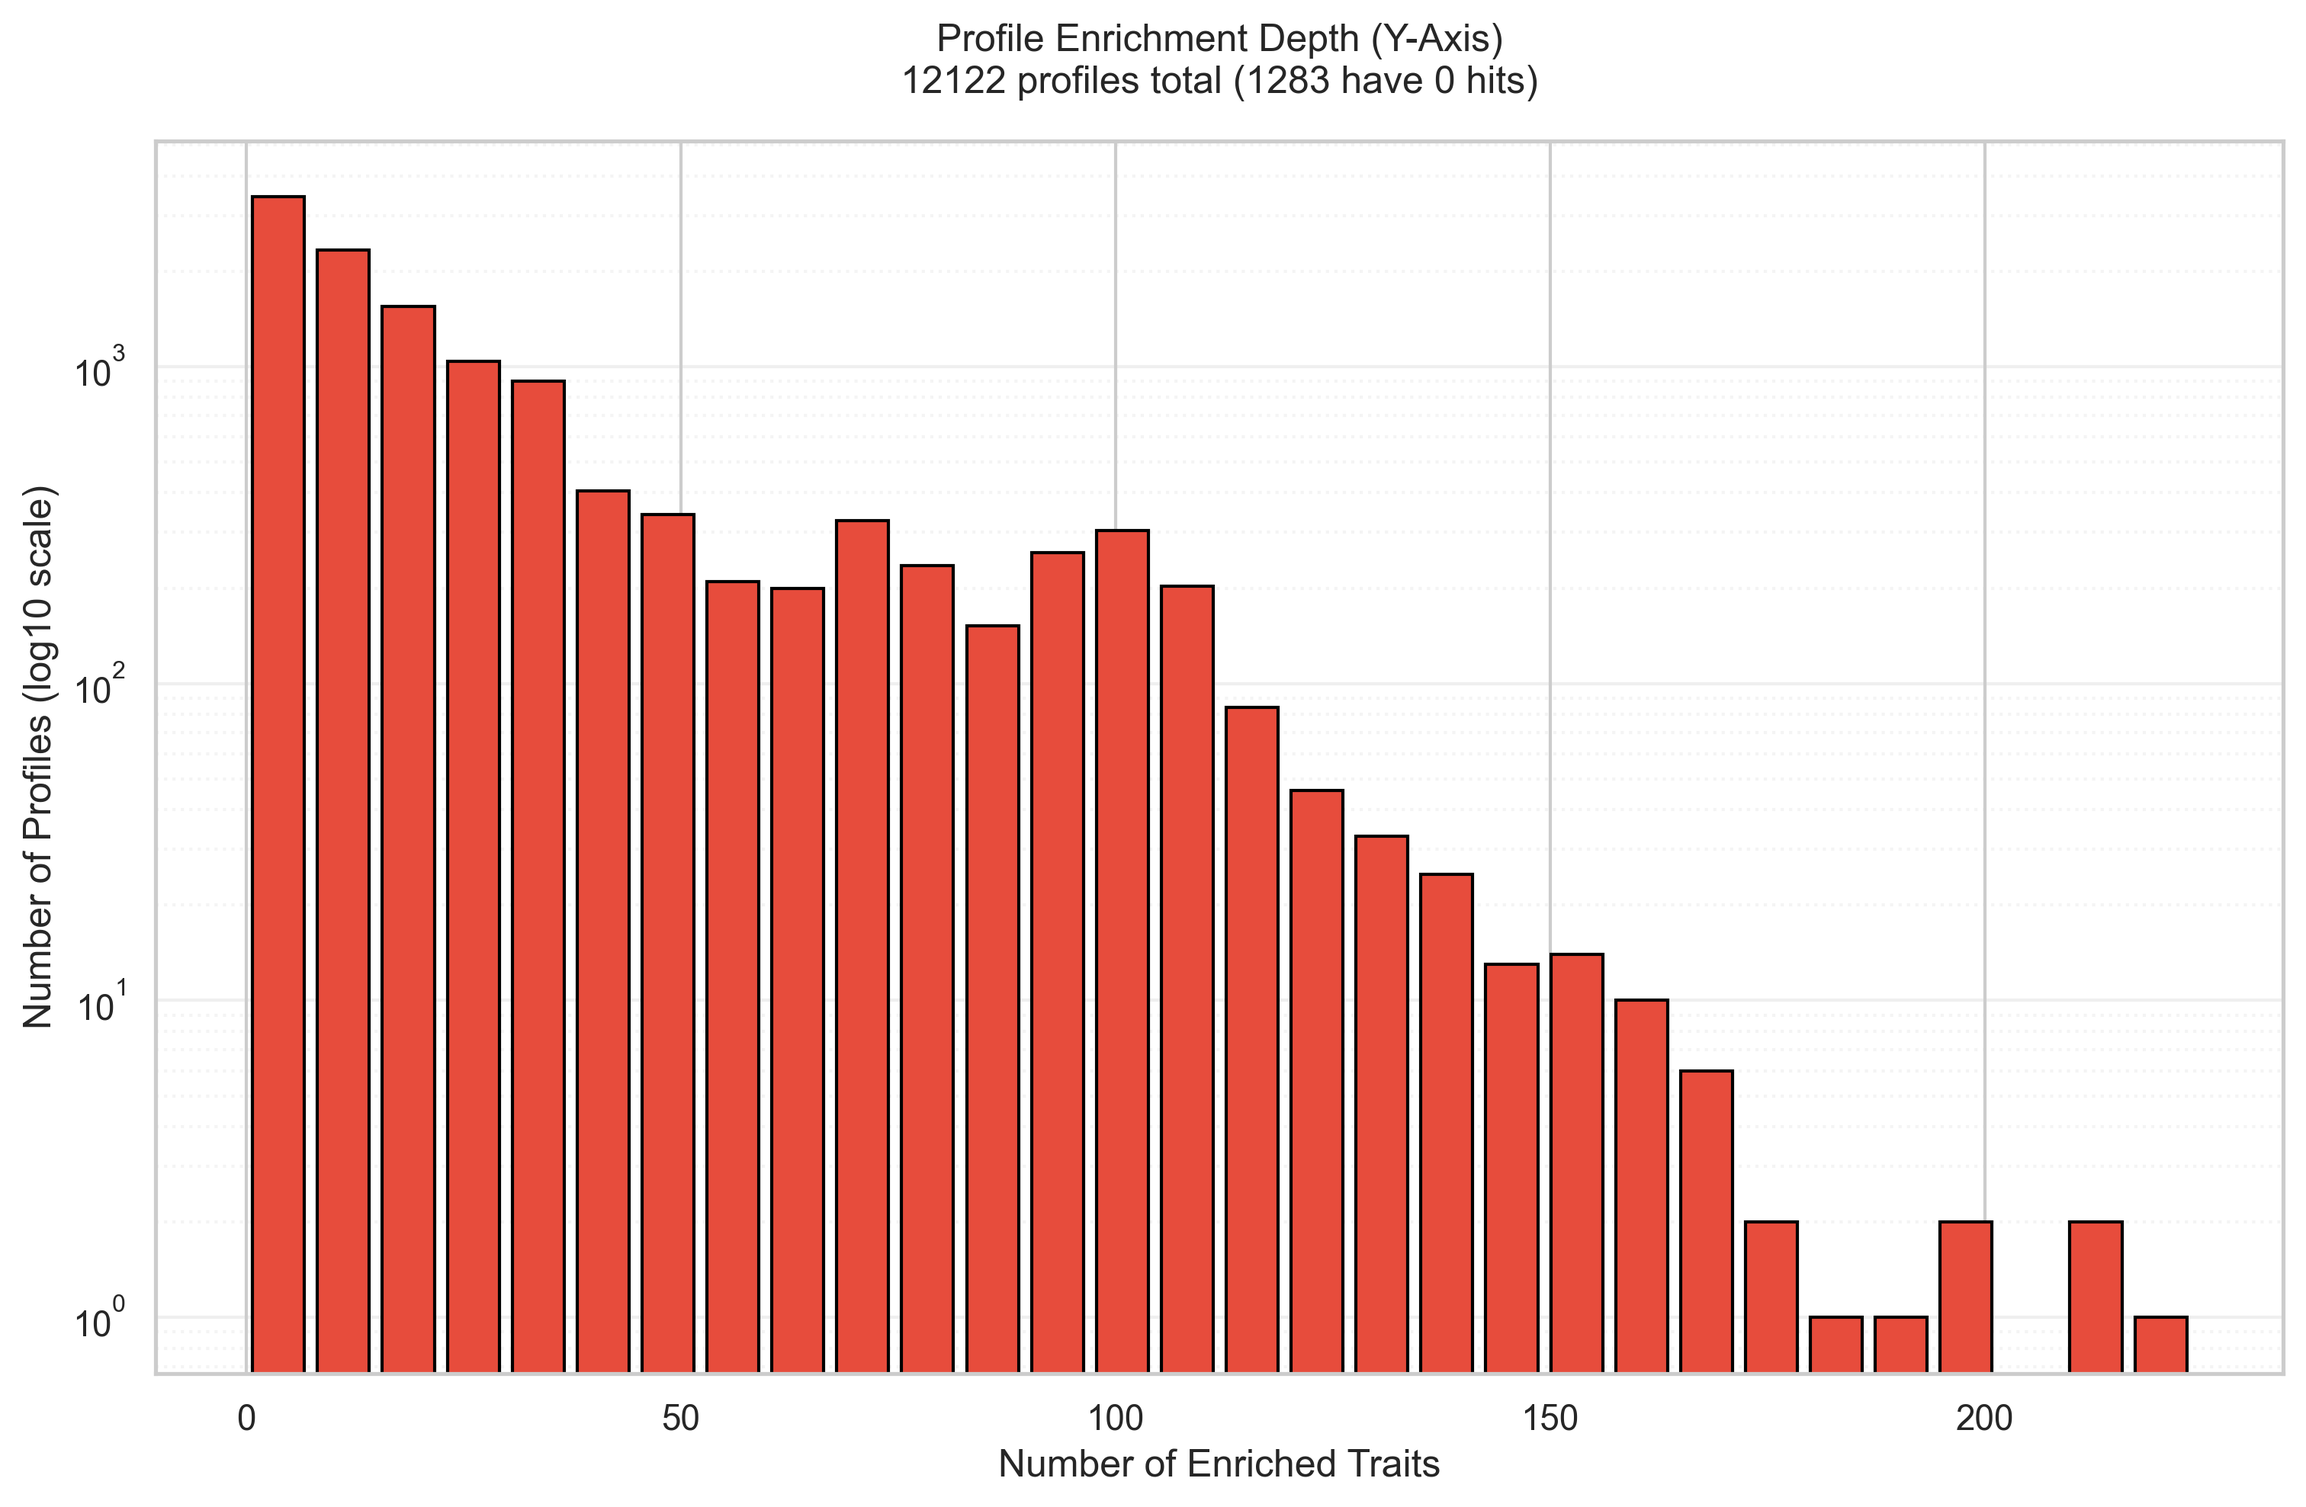
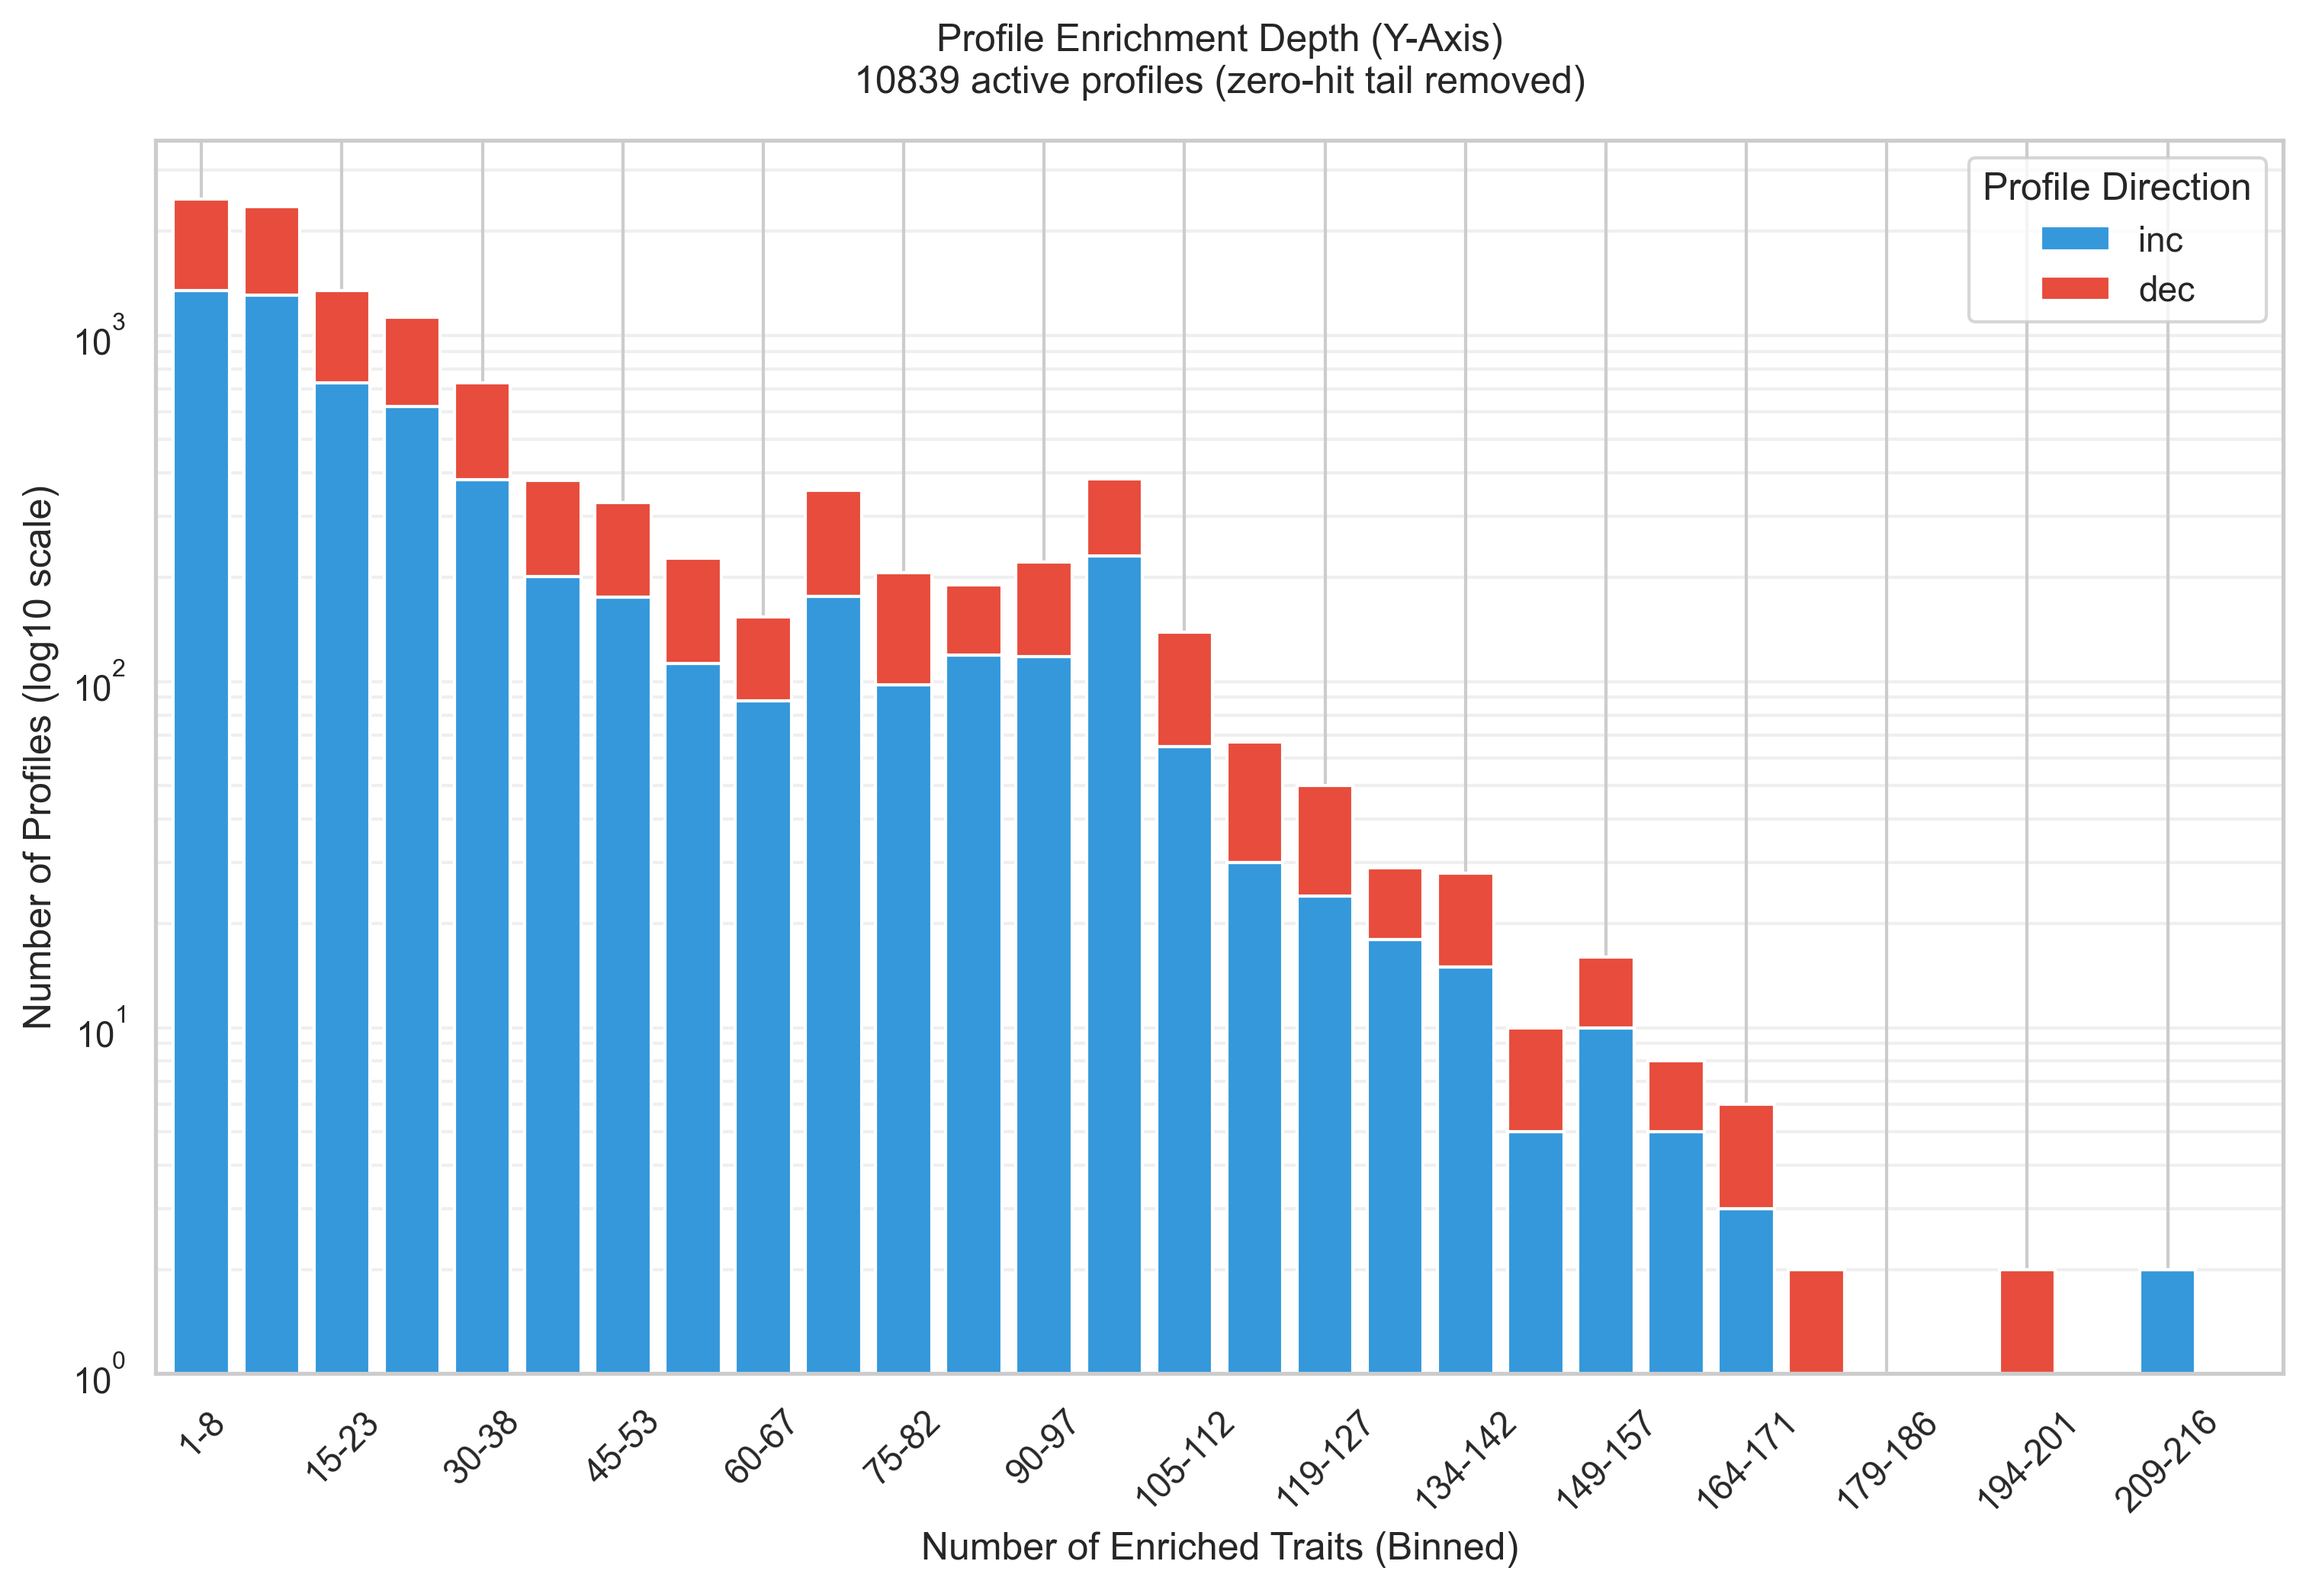
feat: convert enrichment histograms to stacked bar graphs and update methodology

diff --git a/scripts/plot_enrichment_histograms.py b/scripts/plot_enrichment_histograms.py
@@ -1,5 +1,5 @@
 #!/usr/bin/env python3
-"""Create histogram plots for trait enrichment across X (traits) and Y (profiles) axes."""
+"""Create stacked bar plots for trait enrichment across X (traits) and Y (profiles) axes."""
 
 from __future__ import annotations
 
@@ -7,11 +7,12 @@ import argparse
 from pathlib import Path
 
 import matplotlib.pyplot as plt
+import numpy as np
 import pandas as pd
 import seaborn as sns
 
 def parse_args():
-    parser = argparse.ArgumentParser(description="Plot enrichment histograms.")
+    parser = argparse.ArgumentParser(description="Plot enrichment stacked bar graphs.")
     parser.add_argument(
         "--results",
         type=Path,
@@ -35,100 +36,138 @@ def parse_args():
 def main():
     args = parse_args()
     
-    # Load universe to get all possible profiles and traits
-    print(f"Loading universe from {args.universe}...")
-    # Read only the header first to get trait columns
+    # Load universe to get all possible profiles and traits (not needed for non-zero plots, but kept for context)
+    print(f"Loading universe metadata from {args.universe}...")
     universe_header = pd.read_csv(args.universe, sep="\t", nrows=0)
-    all_traits = [col for col in universe_header.columns if col not in {"study_id", "experiment_id", "inc_dec"}]
+    all_traits_in_universe = [col for col in universe_header.columns if col not in {"study_id", "experiment_id", "inc_dec"}]
     
-    # Read universe to get all profiles
     universe_df = pd.read_csv(args.universe, sep="\t", usecols=["study_id", "experiment_id", "inc_dec"])
-    universe_df["profile_id"] = universe_df["study_id"] + "|" + universe_df["experiment_id"] + "|" + universe_df["inc_dec"]
-    all_profiles = universe_df["profile_id"].unique()
-    
-    print(f"Universe contains {len(all_traits)} traits and {len(all_profiles)} profiles.")
+    all_profiles_in_universe = (universe_df["study_id"] + "|" + universe_df["experiment_id"] + "|" + universe_df["inc_dec"]).unique()
     
     # Load enrichment results
     print(f"Loading enrichment results from {args.results}...")
     results_df = pd.read_csv(args.results, sep="\t")
-    results_df["profile_id"] = results_df["study_id"] + "|" + results_df["experiment_id"] + "|" + results_df["inc_dec"]
     
-    # 1. X-Axis: Enriched Traits (how many profiles is each trait enriched in?)
-    trait_counts = results_df.groupby("trait")["profile_id"].nunique()
-    # Align with all traits in universe
-    trait_counts = trait_counts.reindex(all_traits, fill_value=0)
+    # 1. Y-Axis: Profile Depth (How many traits are enriched in each profile?)
+    # Group by profile and direction
+    profile_trait_counts = results_df.groupby(["study_id", "experiment_id", "inc_dec"])["trait"].nunique().reset_index()
+    profile_trait_counts.columns = ["study_id", "experiment_id", "inc_dec", "trait_count"]
     
-    # 2. Y-Axis: Enriched Profiles (how many traits are enriched in each profile?)
-    profile_counts = results_df.groupby("profile_id")["trait"].nunique()
-    # Align with all profiles in universe
-    profile_counts = profile_counts.reindex(all_profiles, fill_value=0)
+    # Filter out profiles with 0 hits (remove tails)
+    active_profiles = profile_trait_counts[profile_trait_counts["trait_count"] > 0].copy()
+    
+    # Define bins for the profile trait counts
+    max_traits = active_profiles["trait_count"].max()
+    num_bins = 30
+    bins_y = np.linspace(1, max_traits, num_bins + 1)
+    
+    # Assign each profile to a bin
+    active_profiles["bin_idx"] = pd.cut(active_profiles["trait_count"], bins=bins_y, labels=False, include_lowest=True)
+    
+    # Group by bin and inc_dec to get counts for the stack
+    profile_binned = active_profiles.groupby(["bin_idx", "inc_dec"]).size().unstack(fill_value=0)
+    
+    # Ensure both directions exist in columns
+    for d in ["inc", "dec"]:
+        if d not in profile_binned.columns:
+            profile_binned[d] = 0
+    
+    # Sort columns for consistent stacking
+    profile_binned = profile_binned[["inc", "dec"]]
+    
+    # 2. X-Axis: Trait Frequency (How many profiles is each trait enriched in?)
+    # Count occurrences for each trait separated by profile direction
+    trait_inc = results_df[results_df["inc_dec"] == "inc"].groupby("trait")["experiment_id"].nunique()
+    trait_dec = results_df[results_df["inc_dec"] == "dec"].groupby("trait")["experiment_id"].nunique()
+    trait_total = results_df.groupby("trait")["experiment_id"].nunique()
+    
+    trait_data = pd.DataFrame({
+        "inc": trait_inc,
+        "dec": trait_dec,
+        "total": trait_total
+    }).fillna(0)
+    
+    # Filter out traits with 0 hits (remove tails)
+    active_traits = trait_data[trait_data["total"] > 0].copy()
+    
+    # Define bins for trait frequency
+    max_freq = active_traits["total"].max()
+    bins_x = np.linspace(1, max_freq, num_bins + 1)
+    
+    # Assign each trait to a bin based on total frequency
+    active_traits["bin_idx"] = pd.cut(active_traits["total"], bins=bins_x, labels=False, include_lowest=True)
+    
+    # For each bin, sum the 'inc' and 'dec' enrichment hits
+    trait_binned = active_traits.groupby("bin_idx")[["inc", "dec"]].sum()
     
     # Plotting
     sns.set_theme(style="whitegrid")
-
-    # Trait Histogram
-    plt.figure(figsize=(12, 7))
-    trait_zeros = (trait_counts == 0).sum()
+    colors = {"inc": "#3498db", "dec": "#e74c3c"} # Blue for Increase, Red for Decrease
     
-    # Use plt.hist with rwidth to force gaps between bars and avoid "step plot" look
-    plt.hist(
-        trait_counts,
-        bins=30,
-        color="#3498db",
-        edgecolor="black",
-        linewidth=1.0,
-        rwidth=0.8,
-        log=True
+    # Profile Depth Plot (Y-Axis)
+    plt.figure(figsize=(12, 7))
+    bin_labels_y = [f"{int(bins_y[i])}-{int(bins_y[i+1])}" for i in range(len(bins_y)-1)]
+    
+    # Reindex to ensure all bins are represented even if empty (within range)
+    profile_binned = profile_binned.reindex(range(num_bins), fill_value=0)
+    
+    ax_y = profile_binned.plot(
+        kind="bar", 
+        stacked=True, 
+        width=0.8, 
+        color=[colors["inc"], colors["dec"]],
+        ax=plt.gca()
     )
     
-    plt.title(f"Trait Enrichment Frequency (X-Axis)\n{len(all_traits)} traits total ({trait_zeros} have 0 hits)", pad=15)
-    plt.xlabel("Number of Profiles Enriched In")
-    plt.ylabel("Number of Traits (log10 scale)")
-    plt.grid(axis='y', which='major', linestyle='-', alpha=0.3)
-    plt.grid(axis='y', which='minor', linestyle=':', alpha=0.2)
-    
-    trait_plot_path = args.output_dir / "trait_enrichment_x_histogram.png"
-    plt.savefig(trait_plot_path, dpi=300, bbox_inches="tight")
-    print(f"Wrote trait histogram to {trait_plot_path}")
-    plt.close()
-    
-    # Profile Histogram
-    plt.figure(figsize=(12, 7))
-    profile_zeros = (profile_counts == 0).sum()
-    
-    plt.hist(
-        profile_counts,
-        bins=30,
-        color="#e74c3c",
-        edgecolor="black",
-        linewidth=1.0,
-        rwidth=0.8,
-        log=True
-    )
-    
-    plt.title(f"Profile Enrichment Depth (Y-Axis)\n{len(all_profiles)} profiles total ({profile_zeros} have 0 hits)", pad=15)
-    plt.xlabel("Number of Enriched Traits")
+    plt.title(f"Profile Enrichment Depth (Y-Axis)\n{len(active_profiles)} active profiles (zero-hit tail removed)", pad=15)
+    plt.xlabel("Number of Enriched Traits (Binned)")
     plt.ylabel("Number of Profiles (log10 scale)")
-    plt.grid(axis='y', which='major', linestyle='-', alpha=0.3)
-    plt.grid(axis='y', which='minor', linestyle=':', alpha=0.2)
+    plt.yscale("log")
+    
+    # Set x-labels every 5 bins to avoid overcrowding
+    tick_indices = range(0, num_bins, 2)
+    plt.xticks(tick_indices, [bin_labels_y[i] for i in tick_indices], rotation=45)
+    
+    plt.legend(title="Profile Direction")
+    plt.grid(axis='y', which='both', linestyle='-', alpha=0.3)
     
     profile_plot_path = args.output_dir / "profile_enrichment_y_histogram.png"
     plt.savefig(profile_plot_path, dpi=300, bbox_inches="tight")
-    print(f"Wrote profile histogram to {profile_plot_path}")
+    print(f"Wrote stacked profile plot to {profile_plot_path}")
     plt.close()
+
+    # Trait Frequency Plot (X-Axis)
+    plt.figure(figsize=(12, 7))
+    bin_labels_x = [f"{int(bins_x[i])}-{int(bins_x[i+1])}" for i in range(len(bins_x)-1)]
     
-    # Save raw counts for verification
-    trait_counts_df = trait_counts.reset_index()
-    trait_counts_df.columns = ["trait", "enrichment_count"]
-    trait_counts_path = args.output_dir / "trait_enrichment_counts.tsv"
-    trait_counts_df.to_csv(trait_counts_path, sep="\t", index=False)
-    print(f"Wrote trait counts to {trait_counts_path}")
+    trait_binned = trait_binned.reindex(range(num_bins), fill_value=0)
     
-    profile_counts_df = profile_counts.reset_index()
-    profile_counts_df.columns = ["profile_id", "enrichment_count"]
-    profile_counts_path = args.output_dir / "profile_enrichment_counts.tsv"
-    profile_counts_df.to_csv(profile_counts_path, sep="\t", index=False)
-    print(f"Wrote profile counts to {profile_counts_path}")
+    ax_x = trait_binned.plot(
+        kind="bar", 
+        stacked=True, 
+        width=0.8, 
+        color=[colors["inc"], colors["dec"]],
+        ax=plt.gca()
+    )
+    
+    plt.title(f"Trait Enrichment Frequency (X-Axis)\n{len(active_traits)} active traits (zero-hit tail removed)", pad=15)
+    plt.xlabel("Number of Profiles Enriched In (Binned)")
+    plt.ylabel("Total Enrichment Hits (log10 scale)")
+    plt.yscale("log")
+    
+    plt.xticks(tick_indices, [bin_labels_x[i] for i in tick_indices], rotation=45)
+    
+    plt.legend(title="Enrichment Direction")
+    plt.grid(axis='y', which='both', linestyle='-', alpha=0.3)
+    
+    trait_plot_path = args.output_dir / "trait_enrichment_x_histogram.png"
+    plt.savefig(trait_plot_path, dpi=300, bbox_inches="tight")
+    print(f"Wrote stacked trait plot to {trait_plot_path}")
+    plt.close()
+
+    # Save summary counts
+    active_traits.to_csv(args.output_dir / "trait_enrichment_counts_stacked.tsv", sep="\t")
+    active_profiles.to_csv(args.output_dir / "profile_enrichment_counts_stacked.tsv", sep="\t")
 
 if __name__ == "__main__":
     main()
